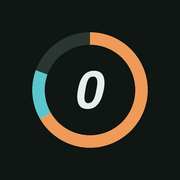
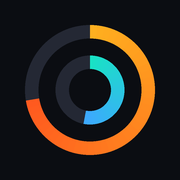
Redesign in a fitness-app style with activity rings
Claude-Session: https://claude.ai/code/session_01DfRfS8ooLMCiExNXkD1MeU

Changed region(s): [[0.1389, 0.1389, 0.8611, 0.8611], [0.3056, 0.3056, 0.6944, 0.6944]]

diff --git a/index.html b/index.html
@@ -5,123 +5,137 @@
 <meta name="viewport" content="width=device-width, initial-scale=1">
 <title>Лимит тяжек</title>
 <link rel="manifest" href="manifest.webmanifest">
-<meta name="theme-color" content="#0F1613">
+<meta name="theme-color" content="#0B0D12">
 <link rel="icon" href="icon-192.png">
 <link rel="apple-touch-icon" href="apple-touch-icon.png">
 <meta name="apple-mobile-web-app-capable" content="yes">
 <meta name="mobile-web-app-capable" content="yes">
 <meta name="apple-mobile-web-app-title" content="Лимит">
+<meta name="apple-mobile-web-app-status-bar-style" content="black-translucent">
 <link rel="preconnect" href="https://fonts.googleapis.com">
 <link rel="preconnect" href="https://fonts.gstatic.com" crossorigin>
-<link href="https://fonts.googleapis.com/css2?family=Barlow+Condensed:wght@600;700&family=Onest:wght@400;500;600;700&display=swap" rel="stylesheet">
+<link href="https://fonts.googleapis.com/css2?family=Barlow+Condensed:ital,wght@1,600;1,700&family=Onest:wght@400;500;600;700;800&display=swap" rel="stylesheet">
 <style>
-/* Layout: одна колонка, большие счётчики сверху, нижняя панель вкладок. Тяжки тёплые, упражнения холодные. */
+/* Тёмный спортивный стиль: два кольца активности (тяжки снаружи, упражнение внутри), крупные цифры, градиентные кнопки. */
 :root{
-  --bg:#EEF1EE; --surface:#FFFFFF; --ink:#16201C; --muted:#5B6862; --line:#D8DED9;
-  --puff:#B4540F; --on-puff:#FFFFFF;
-  --move:#0B6F78; --on-move:#FFFFFF;
-  --bad:#B3261E; --good:#2B7A4B;
+  --bg:#0B0D12; --card:#151922; --card2:#1D222D; --ink:#F4F6FA; --muted:#8A93A6; --line:rgba(255,255,255,.08);
+  --puff-a:#FFB020; --puff-b:#FF5A1F;
+  --move-a:#19E3C5; --move-b:#3DA9FF;
+  --bad:#FF4D5E; --good:#B6F23A;
   --display:'Barlow Condensed','Onest',system-ui,sans-serif;
   --body:'Onest',system-ui,-apple-system,'Segoe UI',sans-serif;
-  color-scheme:light;
-}
-@media (prefers-color-scheme: dark){
-  :root:not([data-theme="light"]){
-    --bg:#0F1613; --surface:#18221D; --ink:#E7EEE9; --muted:#97A59D; --line:#2A3730;
-    --puff:#F09A5A; --on-puff:#1A0F05;
-    --move:#5CC6CF; --on-move:#04191B;
-    --bad:#FF8A80; --good:#7BD39A;
-    color-scheme:dark;
-  }
-}
-:root[data-theme="dark"]{
-  --bg:#0F1613; --surface:#18221D; --ink:#E7EEE9; --muted:#97A59D; --line:#2A3730;
-  --puff:#F09A5A; --on-puff:#1A0F05;
-  --move:#5CC6CF; --on-move:#04191B;
-  --bad:#FF8A80; --good:#7BD39A;
   color-scheme:dark;
 }
-*{box-sizing:border-box}
+*{box-sizing:border-box;-webkit-tap-highlight-color:transparent}
 html,body{margin:0}
-body{background:var(--bg);color:var(--ink);font:16px/1.45 var(--body);-webkit-text-size-adjust:100%}
-.wrap{max-width:480px;margin:0 auto;padding:16px 16px 104px;display:flex;flex-direction:column;gap:12px}
+body{background:var(--bg);color:var(--ink);font:16px/1.45 var(--body);-webkit-text-size-adjust:100%;
+  background-image:radial-gradient(120% 60% at 50% -10%,rgba(255,106,31,.14),transparent 60%),radial-gradient(90% 50% at 100% 30%,rgba(25,227,197,.07),transparent 60%);
+  background-attachment:fixed}
+.wrap{max-width:480px;margin:0 auto;padding:max(16px,env(safe-area-inset-top)) 16px 112px;display:flex;flex-direction:column;gap:14px}
 h1,h2,h3,p{margin:0}
-h2{font-size:22px;font-weight:700;text-wrap:balance}
+h2{font-size:22px;font-weight:800;text-wrap:balance;letter-spacing:-.01em}
 .muted{color:var(--muted)}
-.head{display:flex;align-items:baseline;justify-content:space-between;gap:12px;padding:4px 2px}
-.head .day{font-size:15px;color:var(--muted);font-weight:600}
-.head .day b{font-family:var(--display);font-size:44px;line-height:1;color:var(--ink);font-weight:700;margin-left:4px;font-variant-numeric:tabular-nums}
-.head .date{font-size:14px;color:var(--muted);text-align:right}
-.card{background:var(--surface);border:1px solid var(--line);border-radius:16px;padding:16px;display:flex;flex-direction:column;gap:12px}
-.label{font-size:12px;letter-spacing:.06em;text-transform:uppercase;color:var(--muted);font-weight:600}
-.big{display:flex;align-items:baseline;gap:10px;font-variant-numeric:tabular-nums}
-.num{font-family:var(--display);font-weight:700;font-size:76px;line-height:.9}
-.of{font-family:var(--display);font-weight:600;font-size:30px;color:var(--muted)}
-.puff .num{color:var(--puff)}
-.move .num{color:var(--move)}
-.over .num{color:var(--bad)}
-.bar{height:10px;border-radius:99px;background:color-mix(in srgb,var(--ink) 9%,var(--surface));overflow:hidden}
-.bar i{display:block;height:100%;border-radius:99px;background:var(--puff);transition:width .25s ease}
-.move .bar i{background:var(--move)}
-.over .bar i{background:var(--bad)}
-.status{font-weight:600;font-size:17px}
-.status.bad{color:var(--bad)}
-.btns{display:flex;gap:8px}
-button{font:inherit;min-height:48px;border-radius:12px;border:1px solid var(--line);background:var(--surface);color:var(--ink);font-weight:600;padding:0 14px;cursor:pointer;touch-action:manipulation}
-button:active{transform:scale(.98)}
-button:focus-visible,input:focus-visible,textarea:focus-visible{outline:3px solid color-mix(in srgb,var(--move) 70%,transparent);outline-offset:2px}
-button:disabled{opacity:.45;cursor:default}
+.num,.n{font-family:var(--display);font-style:italic;font-weight:700;font-variant-numeric:tabular-nums}
+
+.head{display:flex;align-items:flex-end;justify-content:space-between;gap:12px;padding:6px 2px 0}
+.eyebrow{font-size:12px;letter-spacing:.14em;text-transform:uppercase;color:var(--muted);font-weight:700}
+.head .day{display:flex;flex-direction:column;gap:0}
+.head .day .n{font-size:64px;line-height:.9}
+.head .right{display:flex;flex-direction:column;align-items:flex-end;gap:8px;text-align:right}
+.head .date{font-size:14px;color:var(--muted);font-weight:500}
+.pill{display:inline-flex;align-items:center;gap:6px;font-size:13px;font-weight:700;padding:5px 11px;border-radius:99px;background:rgba(182,242,58,.12);color:var(--good)}
+.pill.off{background:rgba(255,255,255,.07);color:var(--muted)}
+.pill svg{width:14px;height:14px}
+
+.card{background:var(--card);border:1px solid var(--line);border-radius:24px;padding:18px;display:flex;flex-direction:column;gap:14px}
+.hero{align-items:center;padding:22px 18px 18px;gap:18px}
+.rings{position:relative;width:min(300px,78vw);aspect-ratio:1}
+.rings svg{width:100%;height:100%;display:block}
+.trk{fill:none;stroke:rgba(255,255,255,.07);stroke-width:16}
+.arc{fill:none;stroke-width:16;stroke-linecap:round}
+.center{position:absolute;inset:0;display:flex;flex-direction:column;align-items:center;justify-content:center;text-align:center}
+.center .num{font-size:84px;line-height:.85}
+.center .of{font-size:15px;color:var(--muted);font-weight:600;margin-top:6px}
+.center.over .num{color:var(--bad)}
+.legend{display:grid;grid-template-columns:1fr 1fr;gap:10px;width:100%}
+.lg{background:var(--card2);border-radius:16px;padding:12px 14px;display:flex;flex-direction:column;gap:2px;min-width:0}
+.lg .eyebrow{display:flex;align-items:center;gap:7px;letter-spacing:.1em;font-size:11px}
+.lg i{width:9px;height:9px;border-radius:50%;flex:none}
+.lg.p i{background:linear-gradient(135deg,var(--puff-a),var(--puff-b))}
+.lg.m i{background:linear-gradient(135deg,var(--move-a),var(--move-b))}
+.lg b{font-family:var(--display);font-style:italic;font-size:30px;line-height:1.05;font-variant-numeric:tabular-nums}
+.lg b small{font-size:18px;color:var(--muted);font-weight:600}
+.lg .s{font-size:13px;color:var(--muted);font-weight:500;overflow-wrap:anywhere}
+.lg .s.bad{color:var(--bad);font-weight:700}
+
+button{font:inherit;min-height:52px;border-radius:16px;border:0;background:var(--card2);color:var(--ink);font-weight:700;padding:0 16px;cursor:pointer;touch-action:manipulation;transition:transform .08s ease,filter .15s}
+button:active{transform:scale(.97);filter:brightness(1.15)}
+button:focus-visible,input:focus-visible,textarea:focus-visible{outline:3px solid var(--move-a);outline-offset:2px}
+button:disabled{opacity:.4;cursor:default}
+.cta{width:100%;min-height:68px;font-size:20px;font-weight:800;letter-spacing:.01em;color:#1A0D02;background:linear-gradient(135deg,var(--puff-a),var(--puff-b));box-shadow:0 10px 28px -10px rgba(255,90,31,.7)}
+.cta.m{color:#021A18;background:linear-gradient(135deg,var(--move-a),var(--move-b));box-shadow:0 10px 28px -10px rgba(25,227,197,.6)}
+.btns{display:flex;gap:10px;width:100%}
 .btns button{flex:1}
-.btns .main{flex:3;min-height:64px;font-size:19px;border:0}
-.puff .main{background:var(--puff);color:var(--on-puff)}
-.move .main{background:var(--move);color:var(--on-move)}
-.stats{display:grid;grid-template-columns:repeat(3,1fr);gap:8px}
-.stat{background:var(--surface);border:1px solid var(--line);border-radius:12px;padding:10px 12px;display:flex;flex-direction:column;gap:2px}
-.stat span{font-size:12px;color:var(--muted)}
-.stat b{font-family:var(--display);font-size:28px;line-height:1.05;font-variant-numeric:tabular-nums}
-.stat.warn b{color:var(--bad)}
+.sec{font-size:17px}
+.task{display:flex;align-items:center;justify-content:space-between;gap:12px}
+.task h2{font-size:26px}
+.task .tag{font-size:12px;font-weight:700;color:var(--move-a);background:rgba(25,227,197,.12);padding:5px 10px;border-radius:99px;white-space:nowrap}
+.bar{height:12px;border-radius:99px;background:rgba(255,255,255,.07);overflow:hidden}
+.bar i{display:block;height:100%;border-radius:99px;background:linear-gradient(90deg,var(--move-a),var(--move-b))}
+.st{font-weight:700;font-size:16px}
 .note{font-size:14px;color:var(--muted)}
+
+.stats{display:grid;grid-template-columns:repeat(3,1fr);gap:10px}
+.stat{background:var(--card);border:1px solid var(--line);border-radius:18px;padding:12px;display:flex;flex-direction:column;gap:2px}
+.stat span{font-size:12px;color:var(--muted);font-weight:600}
+.stat b{font-family:var(--display);font-style:italic;font-size:32px;line-height:1.05;font-variant-numeric:tabular-nums}
+.stat.warn b{color:var(--bad)}
+.stat.good b{color:var(--good)}
+
 svg.chart{width:100%;height:auto;display:block}
-.chart .gl{stroke:var(--line);stroke-width:1}
+.chart .gl{stroke:rgba(255,255,255,.08);stroke-width:1}
 .chart .tx{fill:var(--muted);font-size:10px;font-family:var(--body)}
 .chart .lim{stroke:var(--ink);stroke-width:1.5;fill:none;stroke-dasharray:4 3}
 .chart .dot{fill:var(--ink)}
-.chart .ok{fill:var(--puff)}
-.chart .no{fill:var(--bad)}
-.legend{display:flex;gap:14px;font-size:13px;color:var(--muted);flex-wrap:wrap}
-.legend i{display:inline-block;width:10px;height:10px;border-radius:3px;background:var(--puff);margin-right:6px}
-.legend i.l{background:none;border-top:2px dashed var(--ink);height:0;border-radius:0;width:16px;vertical-align:middle}
-.rows{display:flex;flex-direction:column;gap:8px}
-.row{display:grid;grid-template-columns:1fr auto;gap:2px 12px;text-align:left;min-height:64px;padding:10px 14px;align-items:center;width:100%}
-.row .t{font-weight:600}
-.row .s{font-size:13px;color:var(--muted);font-weight:400}
+.lgd{display:flex;gap:16px;font-size:13px;color:var(--muted);flex-wrap:wrap}
+.lgd i{display:inline-block;width:10px;height:10px;border-radius:3px;background:linear-gradient(135deg,var(--puff-a),var(--puff-b));margin-right:6px}
+.lgd i.l{background:none;border-top:2px dashed var(--ink);height:0;border-radius:0;width:16px;vertical-align:middle}
+.rows{display:flex;flex-direction:column;gap:10px}
+.row{display:grid;grid-template-columns:1fr auto;gap:4px 12px;text-align:left;min-height:72px;padding:12px 16px;align-items:center;width:100%;background:var(--card);border:1px solid var(--line);border-radius:20px;font-weight:400}
+.row .t{font-weight:700}
+.row .s{font-size:13px;color:var(--muted);font-weight:500}
 .row .r{text-align:right;font-variant-numeric:tabular-nums}
-.chips{display:flex;gap:6px;justify-content:flex-end;flex-wrap:wrap}
-.chip{font-size:12px;font-weight:600;padding:2px 8px;border-radius:99px;background:color-mix(in srgb,var(--ink) 8%,var(--surface));color:var(--muted)}
-.chip.good{background:color-mix(in srgb,var(--good) 18%,var(--surface));color:var(--good)}
-.chip.bad{background:color-mix(in srgb,var(--bad) 16%,var(--surface));color:var(--bad)}
+.row .r b{font-family:var(--display);font-style:italic;font-size:24px}
+.chips{display:flex;gap:6px;justify-content:flex-end;flex-wrap:wrap;margin-top:2px}
+.chip{font-size:12px;font-weight:700;padding:3px 9px;border-radius:99px;background:rgba(255,255,255,.08);color:var(--muted)}
+.chip.good{background:rgba(182,242,58,.13);color:var(--good)}
+.chip.bad{background:rgba(255,77,94,.15);color:var(--bad)}
+
 .field{display:flex;flex-direction:column;gap:6px}
 .field label{font-size:14px;font-weight:600}
-input,textarea{font:inherit;color:var(--ink);background:var(--bg);border:1px solid var(--line);border-radius:10px;padding:10px 12px;width:100%;min-height:46px}
+input,textarea{font:inherit;color:var(--ink);background:var(--card2);border:1px solid var(--line);border-radius:14px;padding:12px 14px;width:100%;min-height:50px}
 textarea{min-height:120px;resize:vertical}
 .two{display:grid;grid-template-columns:1fr 1fr;gap:12px}
 .danger{color:var(--bad)}
-.danger.arm{background:var(--bad);color:var(--surface);border-color:var(--bad)}
-.tabs{position:fixed;left:0;right:0;bottom:0;background:var(--surface);border-top:1px solid var(--line);display:flex;justify-content:center;padding:8px 8px calc(8px + env(safe-area-inset-bottom))}
-.tabs div{display:flex;gap:6px;width:100%;max-width:480px}
-.tabs button{flex:1;border:0;background:none;color:var(--muted)}
-.tabs button[aria-current="page"]{background:color-mix(in srgb,var(--ink) 8%,var(--surface));color:var(--ink)}
-.scrim{position:fixed;inset:0;background:rgba(0,0,0,.5);display:flex;align-items:flex-end;justify-content:center;z-index:5}
-.sheet{width:100%;max-width:480px;background:var(--surface);border-radius:20px 20px 0 0;padding:20px 16px calc(20px + env(safe-area-inset-bottom));display:flex;flex-direction:column;gap:14px}
-@media (prefers-reduced-motion: reduce){ .bar i{transition:none} button:active{transform:none} }
+.danger.arm{background:var(--bad);color:#fff}
+
+.tabs{position:fixed;left:0;right:0;bottom:0;display:flex;justify-content:center;padding:10px 14px calc(10px + env(safe-area-inset-bottom));background:linear-gradient(to top,var(--bg) 55%,transparent)}
+.tabs div{display:flex;gap:6px;width:100%;max-width:480px;background:rgba(29,34,45,.92);border:1px solid var(--line);border-radius:22px;padding:6px;backdrop-filter:blur(14px);-webkit-backdrop-filter:blur(14px)}
+.tabs button{flex:1;min-height:52px;display:flex;flex-direction:column;align-items:center;justify-content:center;gap:3px;font-size:12px;background:none;color:var(--muted);border-radius:16px;padding:0}
+.tabs button svg{width:22px;height:22px}
+.tabs button[aria-current="page"]{background:rgba(255,255,255,.09);color:var(--ink)}
+.tabs button[aria-current="page"] svg{color:var(--puff-a)}
+.scrim{position:fixed;inset:0;background:rgba(0,0,0,.6);display:flex;align-items:flex-end;justify-content:center;z-index:5}
+.sheet{width:100%;max-width:480px;background:var(--card);border:1px solid var(--line);border-radius:28px 28px 0 0;padding:22px 18px calc(22px + env(safe-area-inset-bottom));display:flex;flex-direction:column;gap:14px}
+@media (prefers-reduced-motion: reduce){ button{transition:none} button:active{transform:none} }
 </style>
 </head>
 <body>
 <div class="wrap" id="app"></div>
 <nav class="tabs" aria-label="Разделы"><div>
-  <button data-act="tab" data-tab="today" id="tab-today">Сегодня</button>
-  <button data-act="tab" data-tab="history" id="tab-history">История</button>
-  <button data-act="tab" data-tab="settings" id="tab-settings">Настройки</button>
+  <button data-act="tab" data-tab="today" id="tab-today"><svg viewBox="0 0 24 24" fill="none" stroke="currentColor" stroke-width="2.2" stroke-linecap="round"><circle cx="12" cy="12" r="9"/><circle cx="12" cy="12" r="4.5"/></svg>Сегодня</button>
+  <button data-act="tab" data-tab="history" id="tab-history"><svg viewBox="0 0 24 24" fill="none" stroke="currentColor" stroke-width="2.2" stroke-linecap="round"><path d="M5 20V11M12 20V4M19 20v-6"/></svg>История</button>
+  <button data-act="tab" data-tab="settings" id="tab-settings"><svg viewBox="0 0 24 24" fill="none" stroke="currentColor" stroke-width="2.2" stroke-linecap="round"><path d="M4 7h10M18 7h2M4 17h2M10 17h10"/><circle cx="16" cy="7" r="2"/><circle cx="8" cy="17" r="2"/></svg>Настройки</button>
 </div></nav>
 <div id="dlg"></div>
 
@@ -196,11 +210,23 @@ function initDb(){
 }
 
 function add(o,k,n){o[k]=Math.max(0,(o[k]||0)+n);}
-
+function buzz(){try{if(navigator.vibrate)navigator.vibrate(12);}catch(e){}}
 function pct(v,max){if(max<=0)return v>0?100:0;return Math.max(0,Math.min(100,v/max*100));}
-
 function debt(n){var s=0;for(var i=1;i<n;i++){var k=addDays(S.startDate,i-1);s+=Math.max(0,pOf(k)-dOf(k));}return s;}
 function streak(n){var c=0;for(var i=n-1;i>=1;i--){var k=addDays(S.startDate,i-1);if(pOf(k)<=limitFor(i))c++;else break;}return c;}
+
+function arc(r,p,grad){
+  var C=2*Math.PI*r, len=C*p/100;
+  return '<circle class="trk" cx="100" cy="100" r="'+r+'"/>'+
+    (p>0?'<circle class="arc" cx="100" cy="100" r="'+r+'" stroke="url(#'+grad+')" stroke-dasharray="'+len.toFixed(1)+' '+C.toFixed(1)+'" transform="rotate(-90 100 100)"/>':'');
+}
+function rings(pp,dp,over){
+  return '<svg viewBox="0 0 200 200" role="img" aria-label="Кольца: тяжки и упражнение"><defs>'+
+   '<linearGradient id="gP" x1="0" y1="0" x2="1" y2="1"><stop offset="0" stop-color="#FFB020"/><stop offset="1" stop-color="#FF5A1F"/></linearGradient>'+
+   '<linearGradient id="gB" x1="0" y1="0" x2="1" y2="1"><stop offset="0" stop-color="#FF7A6B"/><stop offset="1" stop-color="#FF2E4D"/></linearGradient>'+
+   '<linearGradient id="gM" x1="0" y1="0" x2="1" y2="1"><stop offset="0" stop-color="#19E3C5"/><stop offset="1" stop-color="#3DA9FF"/></linearGradient>'+
+   '</defs>'+arc(88,pp,over?'gB':'gP')+arc(66,dp,'gM')+'</svg>';
+}
 
 function viewToday(){
   var key=todayKey(), n=dayNum(key);
@@ -208,29 +234,28 @@ function viewToday(){
     return '<section class="card"><h2>Старт '+esc(fmt(S.startDate))+'</h2><p class="muted">До начала ещё '+(1-n)+' дн. Дату старта можно поменять в настройках.</p></section>';
   }
   var lim=limitFor(n), p=pOf(key), d=dOf(key), left=lim-p, over=p>lim, rem=p-d, dbt=debt(n), st=streak(n);
-  var puffStatus= over?'<div class="status bad">Выше лимита на '+(-left)+'</div>'
-    : left===0?'<div class="status">Лимит выбран полностью</div>'
-    : '<div class="status">Осталось '+left+'</div>';
-  var exStatus= rem>0?'Осталось '+rem
-    : rem===0?(p===0?'Пока нечего делать':'Всё сделано')
-    : 'Сверх нормы +'+(-rem);
+  var pSub= over?'<div class="s bad">выше лимита на '+(-left)+'</div>':left===0?'<div class="s">лимит выбран</div>':'<div class="s">осталось '+left+'</div>';
+  var dSub= rem>0?'осталось '+rem:rem===0?(p===0?'пока нечего делать':'всё сделано'):'сверх нормы +'+(-rem);
   var h='';
-  h+='<div class="head"><div class="day">День<b>'+n+'</b></div><div class="date">'+esc(fmt(key))+'<br>завтра лимит '+limitFor(n+1)+'</div></div>';
-  h+='<section class="card puff'+(over?' over':'')+'"><div class="label">Тяжки сегодня</div>'+
-     '<div class="big"><span class="num">'+p+'</span><span class="of">из '+lim+'</span></div>'+
-     '<div class="bar"><i style="width:'+pct(p,lim)+'%"></i></div>'+puffStatus+
-     '<div class="btns"><button class="main" data-act="puff" data-n="1">+1 тяжка</button><button data-act="puff" data-n="5">+5</button><button data-act="puff" data-n="-1" aria-label="Убрать одну тяжку">−1</button></div></section>';
-  h+='<section class="card move"><div class="label">Упражнение дня</div><h2>'+esc(exFor(n))+'</h2>'+
-     '<div class="big"><span class="num">'+d+'</span><span class="of">из '+p+'</span></div>'+
+  h+='<div class="head"><div class="day"><span class="eyebrow">День</span><span class="n">'+n+'</span></div>'+
+     '<div class="right"><span class="pill'+(st?'':' off')+'"><svg viewBox="0 0 24 24" fill="currentColor"><path d="M13 2s1 4-2 7c-2 2-4 3-4 7a6 6 0 0 0 12 0c0-3-2-5-3-7-1 2-2 3-3 3 1-3 1-7 0-10z"/></svg>Серия '+st+' дн.</span>'+
+     '<span class="date">'+esc(fmt(key))+' · завтра '+limitFor(n+1)+'</span></div></div>';
+  h+='<section class="card hero"><div class="rings">'+rings(pct(p,lim),pct(d,p),over)+
+     '<div class="center'+(over?' over':'')+'"><span class="eyebrow">Тяжки</span><span class="num">'+p+'</span><span class="of">из '+lim+'</span></div></div>'+
+     '<div class="legend"><div class="lg p"><span class="eyebrow"><i></i>Тяжки</span><b>'+p+'<small> / '+lim+'</small></b>'+pSub+'</div>'+
+     '<div class="lg m"><span class="eyebrow"><i></i>'+esc(exFor(n))+'</span><b>'+d+'<small> / '+p+'</small></b><div class="s">'+dSub+'</div></div></div>'+
+     '<button class="cta" data-act="puff" data-n="1">+1 тяжка</button>'+
+     '<div class="btns"><button data-act="puff" data-n="5">+5</button><button data-act="puff" data-n="-1" aria-label="Убрать одну тяжку">−1</button></div></section>';
+  h+='<section class="card"><div class="task"><div><span class="eyebrow">Упражнение дня</span><h2>'+esc(exFor(n))+'</h2></div><span class="tag">1 тяжка = 1 раз</span></div>'+
      '<div class="bar"><i style="width:'+pct(d,p)+'%"></i></div>'+
-     '<div class="status">'+exStatus+'</div>'+
-     '<div class="btns"><button class="main" data-act="done" data-n="1">+1 сделал</button><button data-act="done" data-n="5">+5</button><button data-act="done" data-n="10">+10</button><button data-act="done" data-n="-1" aria-label="Убрать одно повторение">−1</button></div>'+
-     '<button data-act="doneall"'+(rem<=0?' disabled':'')+'>Закрыть все '+Math.max(0,rem)+' повторений</button>'+
-     (dbt>0?'<p class="note">Долг за прошлые дни: '+dbt+'. Закрыть его можно в истории.</p>':'')+
-     '</section>';
-  h+='<div class="stats"><div class="stat"><span>Серия в лимите</span><b>'+st+' дн.</b></div>'+
+     '<div class="st">'+d+' из '+p+' · '+dSub+'</div>'+
+     '<button class="cta m" data-act="done" data-n="1">+1 сделал</button>'+
+     '<div class="btns"><button data-act="done" data-n="5">+5</button><button data-act="done" data-n="10">+10</button><button data-act="done" data-n="-1" aria-label="Убрать одно повторение">−1</button></div>'+
+     '<button data-act="doneall"'+(rem<=0?' disabled':'')+'>Закрыть все '+Math.max(0,rem)+'</button>'+
+     (dbt>0?'<p class="note">Долг за прошлые дни: '+dbt+'. Закрыть его можно в истории.</p>':'')+'</section>';
+  h+='<div class="stats"><div class="stat good"><span>Серия в лимите</span><b>'+st+' дн.</b></div>'+
      '<div class="stat"><span>Лимит сегодня</span><b>'+lim+'</b></div>'+
-     '<div class="stat'+(dbt>0?' warn':'')+'"><span>Долг упражнений</span><b>'+dbt+'</b></div></div>';
+     '<div class="stat'+(dbt>0?' warn':'')+'"><span>Долг повторений</span><b>'+dbt+'</b></div></div>';
   return h;
 }
 
@@ -241,12 +266,13 @@ function chart(n){
   var mx=Math.max(10,Math.ceil(Math.max.apply(null,pts.map(function(q){return Math.max(q.p,q.l);}))/10)*10);
   function y(v){return T+ph-(v/mx)*ph;}
   var slot=pw/pts.length, bw=slot*0.6, s='';
+  s+='<defs><linearGradient id="cP" x1="0" y1="0" x2="0" y2="1"><stop offset="0" stop-color="#FFB020"/><stop offset="1" stop-color="#FF5A1F"/></linearGradient></defs>';
   s+='<line class="gl" x1="'+L+'" x2="'+(W-R)+'" y1="'+y(0)+'" y2="'+y(0)+'"/><line class="gl" x1="'+L+'" x2="'+(W-R)+'" y1="'+y(mx)+'" y2="'+y(mx)+'"/>';
   s+='<text class="tx" x="'+(L-5)+'" y="'+(y(mx)+3)+'" text-anchor="end">'+mx+'</text><text class="tx" x="'+(L-5)+'" y="'+(y(0)+3)+'" text-anchor="end">0</text>';
   var line=[];
   pts.forEach(function(q,j){
     var cx=L+slot*(j+0.5), h=Math.max(0,(q.p/mx)*ph);
-    s+='<rect class="'+(q.p>q.l?'no':'ok')+'" x="'+(cx-bw/2).toFixed(1)+'" y="'+(y(0)-h).toFixed(1)+'" width="'+bw.toFixed(1)+'" height="'+h.toFixed(1)+'" rx="2"/>';
+    s+='<rect fill="'+(q.p>q.l?'#FF4D5E':'url(#cP)')+'" x="'+(cx-bw/2).toFixed(1)+'" y="'+(y(0)-h).toFixed(1)+'" width="'+bw.toFixed(1)+'" height="'+h.toFixed(1)+'" rx="3"/>';
     line.push(cx.toFixed(1)+','+y(q.l).toFixed(1));
   });
   s+='<polyline class="lim" points="'+line.join(' ')+'"/>';
@@ -261,8 +287,9 @@ function chart(n){
 function viewHistory(){
   var n=dayNum(todayKey());
   if(n<1)return '<section class="card"><h2>История пуста</h2><p class="muted">Старт ещё не наступил.</p></section>';
-  var h='<section class="card"><div class="label">Последние 14 дней, номер дня внизу</div>'+chart(n)+
-    '<div class="legend"><span><i></i>тяжки</span><span><i class="l"></i>лимит</span></div></section><div class="rows">';
+  var h='<div class="head"><div class="day"><span class="eyebrow">Прогресс</span><h2 style="font-size:32px">История</h2></div></div>'+
+    '<section class="card"><span class="eyebrow">Последние 14 дней, номер дня внизу</span>'+chart(n)+
+    '<div class="lgd"><span><i></i>тяжки</span><span><i class="l"></i>лимит</span></div></section><div class="rows">';
   for(var i=n;i>=1;i--){
     var k=addDays(S.startDate,i-1), p=pOf(k), d=dOf(k), l=limitFor(i), rem=p-d;
     var c1=p>l?'<span class="chip bad">выше на '+(p-l)+'</span>':'<span class="chip good">в лимите</span>';
@@ -275,7 +302,8 @@ function viewHistory(){
 
 function viewSettings(){
   var st= sync==='ok'?'Данные сохраняются в твоём аккаунте и на этом устройстве.':sync==='err'?'Не удалось сохранить в аккаунт, данные пока только на этом устройстве.':'Данные хранятся на этом устройстве.';
-  var h='<section class="card"><h2>Правила</h2>'+
+  var h='<div class="head"><div class="day"><span class="eyebrow">Правила игры</span><h2 style="font-size:32px">Настройки</h2></div></div>'+
+   '<section class="card"><h2>Лимит</h2>'+
    '<div class="two"><div class="field"><label for="s-limit">Лимит в первый день</label><input id="s-limit" type="number" inputmode="numeric" min="1" max="1000" value="'+S.startLimit+'" data-set="startLimit"></div>'+
    '<div class="field"><label for="s-step">Минус в день</label><input id="s-step" type="number" inputmode="numeric" min="0" max="50" value="'+S.step+'" data-set="step"></div></div>'+
    '<div class="two"><div class="field"><label for="s-date">Дата первого дня</label><input id="s-date" type="date" value="'+S.startDate+'" data-set="startDate"></div>'+
@@ -298,7 +326,7 @@ function dialog(){
   return '<div class="scrim"><div class="sheet" role="dialog" aria-label="Правка дня"><h2>День '+n+' · '+esc(fmt(k))+'</h2>'+
    '<div class="field"><label for="ed-p">Тяжек сделано</label><input id="ed-p" type="number" inputmode="numeric" min="0" value="'+pOf(k)+'"></div>'+
    '<div class="field"><label for="ed-d">'+esc(exFor(n))+', сделано</label><input id="ed-d" type="number" inputmode="numeric" min="0" value="'+dOf(k)+'"></div>'+
-   '<div class="btns"><button data-act="edcancel">Отмена</button><button class="main" style="background:var(--move);color:var(--on-move)" data-act="edsave">Сохранить</button></div></div></div>';
+   '<div class="btns"><button data-act="edcancel">Отмена</button><button class="cta m" style="flex:2;min-height:52px;font-size:17px" data-act="edsave">Сохранить</button></div></div></div>';
 }
 
 function render(){
@@ -318,9 +346,9 @@ document.addEventListener('click',function(e){
   var a=b.dataset.act, n=parseInt(b.dataset.n,10)||0, key=todayKey();
   if(a!=='restart'&&armed){armed=false;}
   if(a==='tab'){tab=b.dataset.tab;note='';armed=false;render();window.scrollTo(0,0);}
-  else if(a==='puff'){add(S.puffs,key,n);save();render();}
-  else if(a==='done'){add(S.done,key,n);save();render();}
-  else if(a==='doneall'){S.done[key]=pOf(key);save();render();}
+  else if(a==='puff'){add(S.puffs,key,n);save();buzz();render();}
+  else if(a==='done'){add(S.done,key,n);save();buzz();render();}
+  else if(a==='doneall'){S.done[key]=pOf(key);save();buzz();render();}
   else if(a==='edit'){editKey=b.dataset.k;render();var el=document.getElementById('ed-p');if(el)el.focus();}
   else if(a==='edcancel'){editKey=null;render();}
   else if(a==='edsave'){S.puffs[editKey]=intIn('ed-p');S.done[editKey]=intIn('ed-d');editKey=null;save();render();}

diff --git a/sw.js b/sw.js
@@ -1,4 +1,4 @@
-const C='limit-v1';
+const C='limit-v2';
 const A=['./','index.html','manifest.webmanifest','icon-192.png','icon-512.png'];
 self.addEventListener('install',e=>{e.waitUntil(caches.open(C).then(c=>c.addAll(A)).then(()=>self.skipWaiting()));});
 self.addEventListener('activate',e=>{e.waitUntil(caches.keys().then(k=>Promise.all(k.filter(x=>x!==C).map(x=>caches.delete(x)))).then(()=>self.clients.claim()));});
